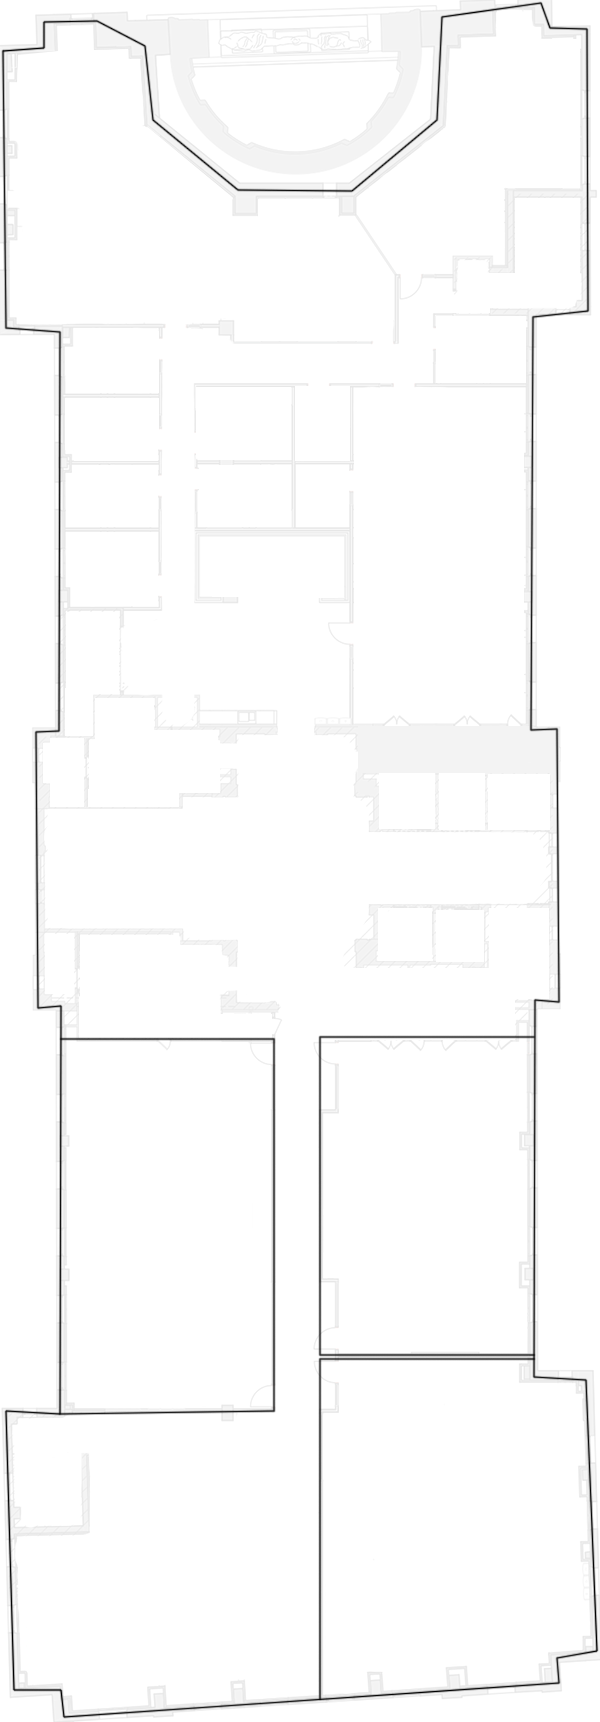
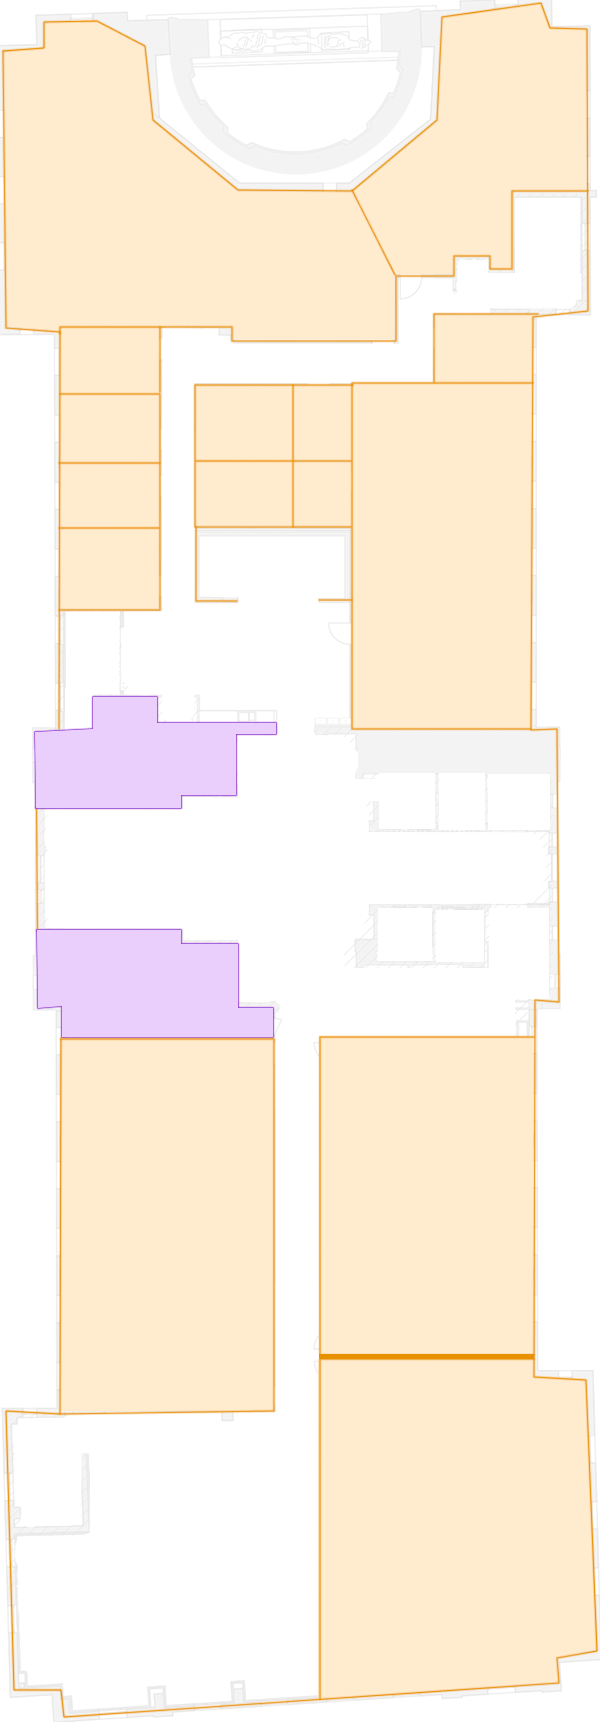
location node improvements and map visual

diff --git a/Navigate/View/MapViewController.swift b/Navigate/View/MapViewController.swift
@@ -33,6 +33,8 @@ class MapViewController: UIViewController, UIGestureRecognizerDelegate {
     
     let bottomSheetVC = ScrollableBottomSheetViewController()
     
+    static var locationNode: SKSpriteNode!
+    
     override func viewDidLoad() {
         super.viewDidLoad()
 
@@ -46,7 +48,15 @@ class MapViewController: UIViewController, UIGestureRecognizerDelegate {
             if let scene = SKScene(fileNamed: "MapTilemapScene") {
                 MapViewController.scene = scene
                 
+                // Initialise the static map
                 MapViewController.map = scene.childNode(withName: "tileMap") as? SKTileMapNode
+                MapViewController.map.zPosition = 0
+                
+                // Move backgroundNode (image map) under the tile map
+                let backgroundNode = scene.childNode(withName: "backgroundNode")
+                backgroundNode?.zPosition = -1
+                
+                MapViewController.locationNode = scene.childNode(withName: "locationNode") as? SKSpriteNode
                 
                 // Set the scale mode to scale to fit the window
                 MapViewController.scene.scaleMode = .aspectFill
@@ -95,7 +105,7 @@ class MapViewController: UIViewController, UIGestureRecognizerDelegate {
         RGSharedDataManager.setFloor(level: 6)
         
         // Set the app mode to dev to display log
-        RGSharedDataManager.appMode = .prod // TODO: make it able to change from the view
+        RGSharedDataManager.appMode = .dev // TODO: make it able to change from the view
     }
     
     fileprivate func addGesturesRecognisers() {
@@ -137,31 +147,26 @@ class MapViewController: UIViewController, UIGestureRecognizerDelegate {
      
      - parameter column: The column of the tile.
      - parameter row: The row of the tile.
-     - parameter color: The color that can be .cyan or .purple
+     - parameter type: The group type of the tile (as expressed by the RGTileType class)
      */
-    static func setTileColor(column: Int, row: Int, color: TileColor) {
+    static func setTileColor(column: Int, row: Int, type: RGTileType) {
         var tileGroup: SKTileGroup!
         
-        switch color {
-        case .cyan:
+        switch type {
+        case .sample:
             do {
                 tileGroup = MapViewController.map.tileSet.tileGroups.first(
-                    where: {$0.name == "cyan_box"})
+                    where: {$0.name == "sample"})
             }
-        case .purple:
+        case .saved:
             do {
                 tileGroup = MapViewController.map.tileSet.tileGroups.first(
-                    where: {$0.name == "purple_box"})
+                    where: {$0.name == "saved"})
             }
-        case .green:
+        case .location:
             do {
                 tileGroup = MapViewController.map.tileSet.tileGroups.first(
-                    where: {$0.name == "green_box"})
-            }
-        case .grey:
-            do {
-                tileGroup = MapViewController.map.tileSet.tileGroups.first(
-                    where: {$0.name == "grey_box"})
+                    where: {$0.name == "location"})
             }
         case .none:
             do {
@@ -173,9 +178,9 @@ class MapViewController: UIViewController, UIGestureRecognizerDelegate {
     
     fileprivate static func displayDevTiles(column: Int, row: Int) {
         if RGSharedDataManager.accessPointHasData(column: column, row: row) {
-            MapViewController.setTileColor(column: column, row: row, color: .cyan)
+            MapViewController.setTileColor(column: column, row: row, type: .saved)
         } else {
-            MapViewController.setTileColor(column: column, row: row, color: .grey)
+            MapViewController.setTileColor(column: column, row: row, type: .sample)
         }
     }
     
@@ -188,14 +193,29 @@ class MapViewController: UIViewController, UIGestureRecognizerDelegate {
                 if RGSharedDataManager.appMode == .dev {
                     displayDevTiles(column: column, row: row)
                 } else if RGSharedDataManager.appMode == .prod {
-                    MapViewController.setTileColor(column: column, row: row, color: .none)
+                    
                 }
             }
         }
     }
     
     static func showCurrentLocation(_ currentLocation: (Int, Int)) {
-        MapViewController.setTileColor(column: RGLocalisation.currentLocation.1, row: RGLocalisation.currentLocation.0, color: .purple)
+        // If the locationNode is hidden, change alpha to 1 to display it
+        if locationNode.alpha < 1 {
+            locationNode.alpha = 1
+        }
+        
+        // Get the location of the center of the tile that represents the current location
+        let location = MapViewController.map.centerOfTile(atColumn: currentLocation.1, row: currentLocation.0)
+        
+        // Animate moving from the last location to the new position in the number of seconds
+        let move = SKAction.move(to: location, duration: 0.3)
+        
+        // Add ease out effect
+        move.timingMode = .easeInEaseOut
+        
+        // Run the animation
+        locationNode.run(move, withKey: "moving")
     }
     
     /**
@@ -220,21 +240,18 @@ class MapViewController: UIViewController, UIGestureRecognizerDelegate {
     }
     
     static func prodLog(_ data: String) {
-//        if RGSharedDataManager.appMode == .prod {
-//
-//        }
         ScrollableBottomSheetViewController.status = data
     }
     
     fileprivate func addBottomSheetView() {
-        let rooms = RGSharedDataManager.getRooms()
-        bottomSheetVC.data = rooms
-        
         self.addChildViewController(bottomSheetVC)
         self.view.addSubview(bottomSheetVC.view)
         bottomSheetVC.didMove(toParentViewController: self)
 
         bottomSheetVC.view.frame = CGRect(x: 0, y: self.view.frame.maxY, width: view.frame.width, height: view.frame.height)
+        
+        let rooms = RGSharedDataManager.getRooms()
+        bottomSheetVC.data = rooms
     }
     
     static func centerToLocation() {

diff --git a/Navigate/Model/RGLocalisation.swift b/Navigate/Model/RGLocalisation.swift
@@ -11,6 +11,7 @@ import Foundation
 class RGLocalisation: NSObject {
     
     // Current location of the iOS device
+    static var previousLocation = (-1, -1)
     static var currentLocation = (-1, -1)
     
     /**
@@ -68,17 +69,21 @@ class RGLocalisation: NSObject {
         // If the current location is valid (not the initial value and in the bounds)
         if currentLocation != (-1, -1) {
             
+            if RGSharedDataManager.appMode == .dev {
+                MapViewController.prodLog("Found Location: \(currentLocation)")
+            }
+            
             // Show debugging log
             MapViewController.devLog(data: "Found: \(currentLocation)")
             
-            // Reset the map
-            MapViewController.resetTiles()
+            // Save the current location for future references
+            self.previousLocation = self.currentLocation
+            
+            // Save the new current location
+            self.currentLocation = currentLocation
             
             // Show the current location
             MapViewController.showCurrentLocation(currentLocation)
-            
-            // Save the current location
-            self.currentLocation = currentLocation
         }
     }
 }

diff --git a/Navigate/View/MapButtonsView.swift b/Navigate/View/MapButtonsView.swift
@@ -28,7 +28,7 @@ class MapButtonsView: UIView {
         addButtonsView()
         addCameraButton()
         addSeparator()
-        addLocationButton()
+        addLocateButton()
     }
     
     fileprivate func addSeparator() {
@@ -64,10 +64,10 @@ class MapButtonsView: UIView {
         (parentVC as? MapViewController)?.performSegue(withIdentifier: "arvc", sender: parentVC)
     }
     
-    fileprivate func addLocationButton() {
+    fileprivate func addLocateButton() {
         locationButton = UIButton(frame: CGRect(x: 0, y: cameraButton.frame.height + 1, width: 40, height: 40))
         locationButton.setTitleColor(.black, for: .normal)
-        locationButton.setImage(UIImage(named: "location"), for: .normal)
+        locationButton.setImage(UIImage(named: "navigation"), for: .normal)
         
         locationButton.addTarget(self, action: #selector(MapButtonsView.locationTaped), for: .touchDown)
         

diff --git a/Navigate/View/MapViewControllerGestureRecognisers.swift b/Navigate/View/MapViewControllerGestureRecognisers.swift
@@ -62,8 +62,8 @@ extension MapViewController {
             // If the model has been able to save data for the specific column and row
             if RGSharedDataManager.saveDataToTile(column: column, row: row) {
                 
-                // Set the tile to cyan color
-                MapViewController.setTileColor(column: column, row: row, color: .cyan)
+                // Save the tile (visually)
+                MapViewController.setTileColor(column: column, row: row, type: .saved)
             }
         } else {
             MapViewController.devLog(data: "AccessPoint already has data")

diff --git a/Navigate/Model/Util.swift b/Navigate/Model/Util.swift
@@ -19,21 +19,11 @@ enum Commands: String {
 /**
  RGColor is a enum used for tile colors.
  */
-enum TileColor {
-    case cyan
-    case purple
-    case green
-    case grey
+enum RGTileType {
+    case saved
+    case sample
+    case location
     case none
-}
-
-/**
- TileType is an enum for tile types.
- */
-enum TileType: String {
-    case free = "free"
-    case wall = "wall"
-    case door = "door"
 }
 
 enum AppMode {

diff --git a/Navigate/Model/RGSharedDataManager.swift b/Navigate/Model/RGSharedDataManager.swift
@@ -29,6 +29,9 @@ class RGSharedDataManager: NSObject {
     // Detect location on changing value of the json
     static var jsonData: Any! {
         didSet {
+            if appMode == .dev {
+                MapViewController.prodLog("Data received")
+            }
             RGLocalisation.detectLocation()
         }
     }
